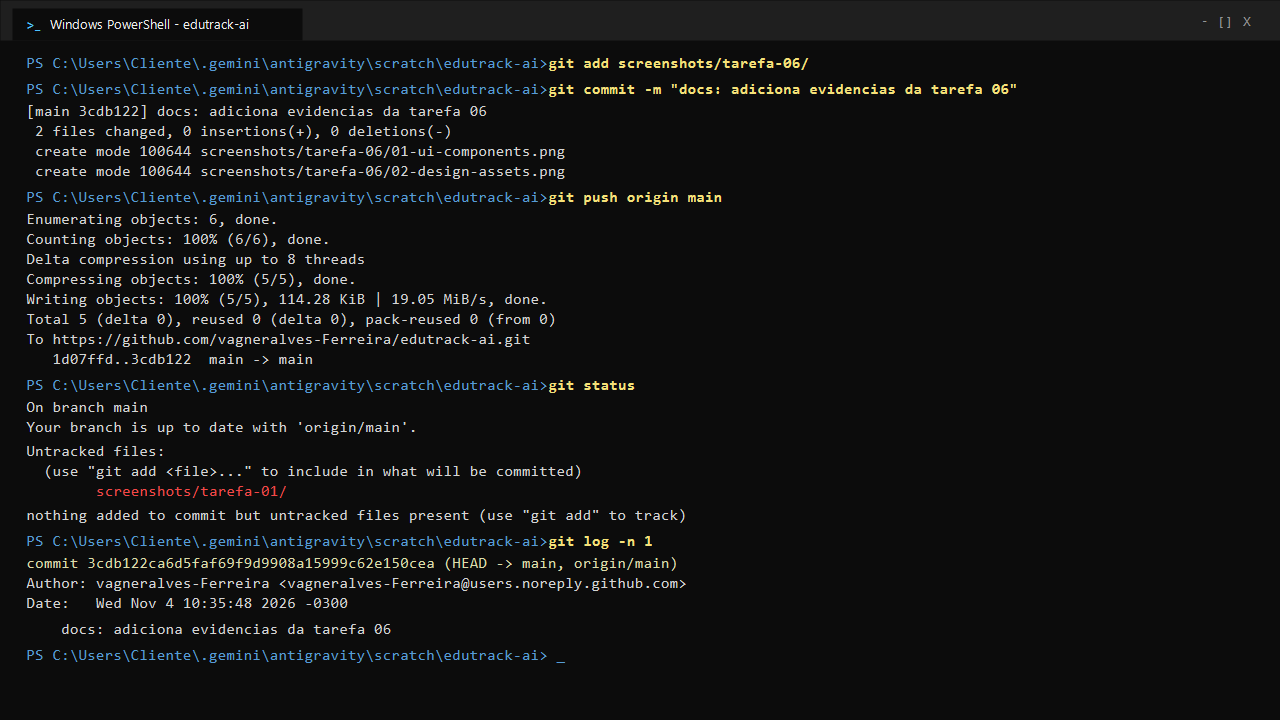
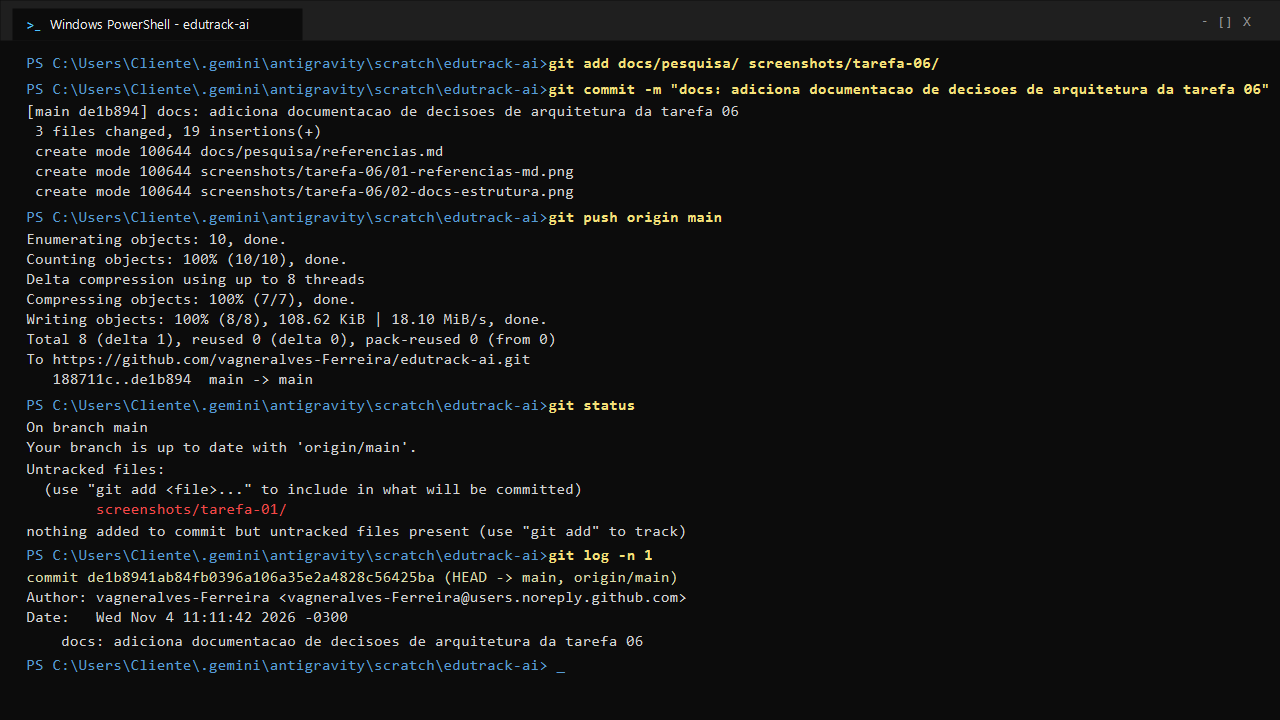
docs: adiciona documentacao de decisoes de arquitetura da tarefa 06

Changed region(s): [[0.0, 0.1528, 0.5625, 0.9472], [0.5, 0.0611, 1.0, 0.1528], [0.0625, 0.1528, 0.0938, 0.1833]]

diff --git a/docs/pesquisa/referencias.md b/docs/pesquisa/referencias.md
@@ -1,0 +1,19 @@
+# Análise de Referências e Decisões de Arquitetura – EduTrack AI
+
+**Disciplina:** Innovation Lab: Desenvolvimento Avançado No/Low Code  
+**Projeto:** EduTrack AI  
+
+## 🏗 Benchmarking e Escolhas Tecnológicas
+
+### 1. Interface e Design System (Substituição do Figma por Tailwind CSS)
+- **Decisão:** Em vez de prototipar via Figma, optou-se pelo desenvolvimento direto em React com Tailwind CSS e a biblioteca Lucide React.
+- **Justificativa:** Maior agilidade na renderização de componentes dinâmicos (Dark Theme nativo, visualização de estatísticas e filtros de tarefas) diretamente em código pronto para produção na Vercel.
+
+### 2. Backend e Banco de Dados (Escolha do Supabase vs. Xano)
+- **Decisão:** Opção pelo Supabase (PostgreSQL BaaS) em detrimento do Xano.
+- **Justificativa:** O Supabase ofereceu integração nativa com o SDK JS/TS do React (`@supabase/supabase-js`), autenticação integrada e definições de tabelas relacionais em SQL, tornando a arquitetura mais robusta e eficiente para o projeto.
+
+---
+
+## 💡 Principal Sacada
+A principal sacada foi priorizar uma pilha de desenvolvimento unificada em TypeScript (React + Supabase), eliminando a necessidade de intermediários como Figma ou Xano e permitindo a criação de um MVP funcional, responsivo e já implantado em produção.
